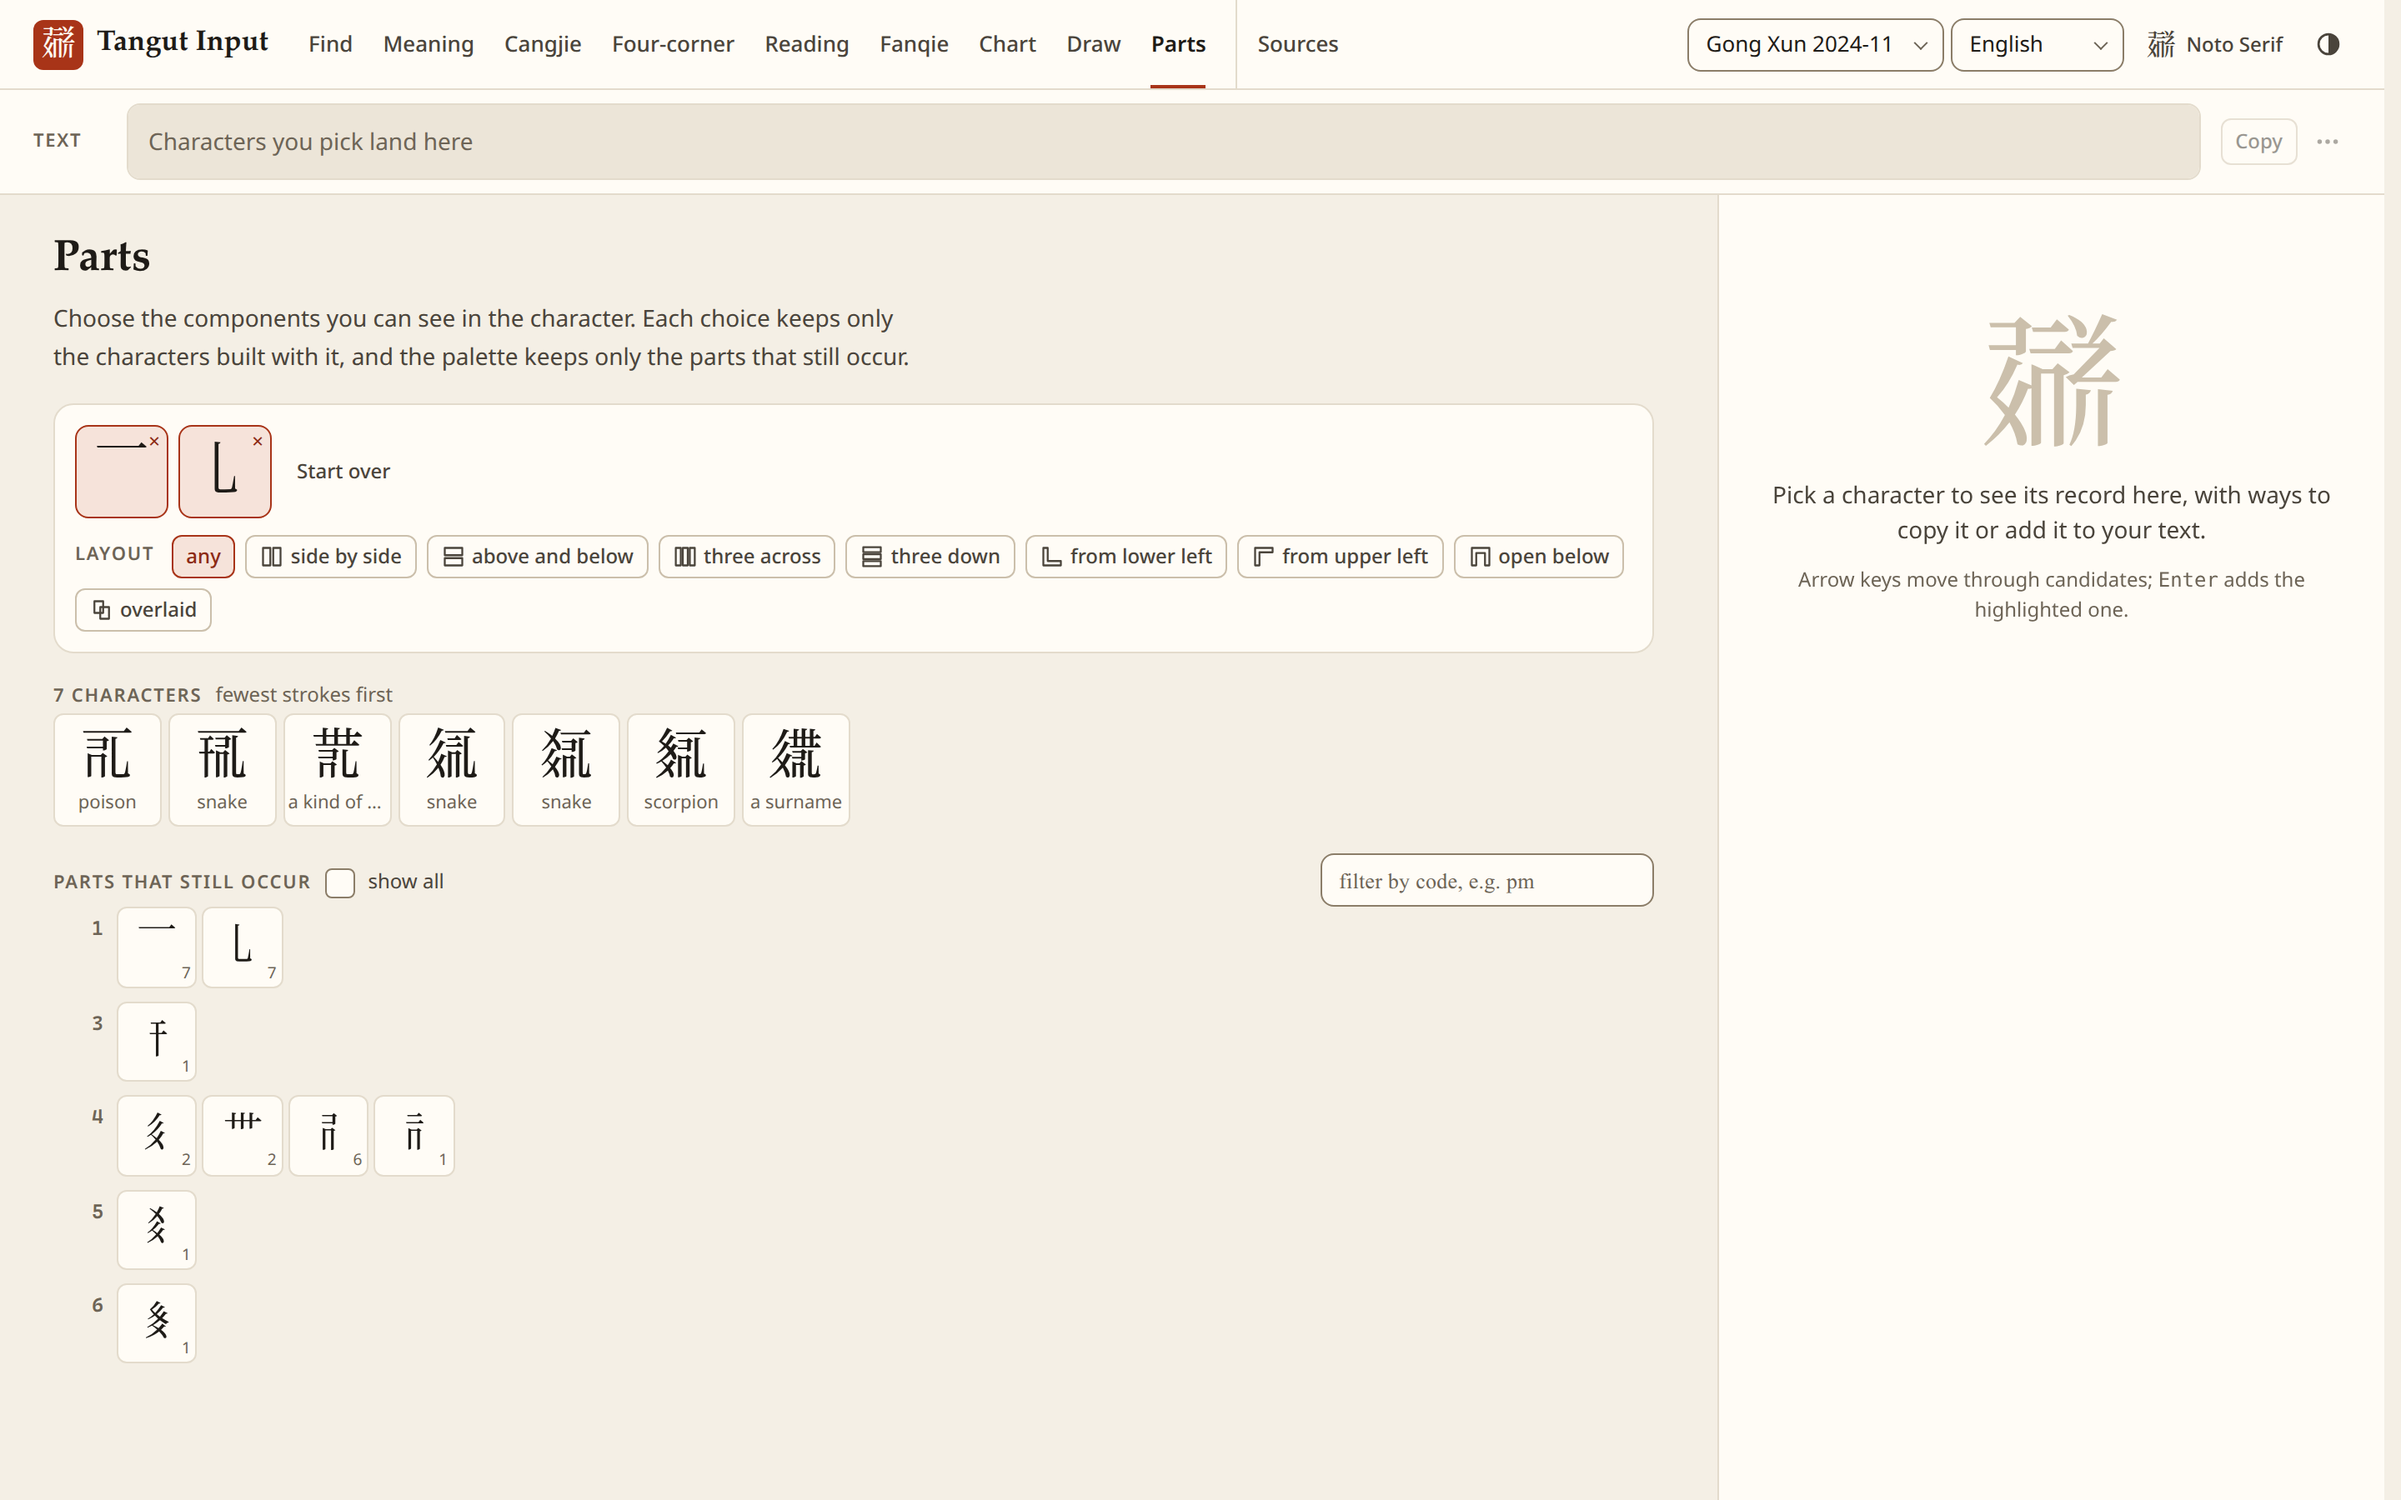
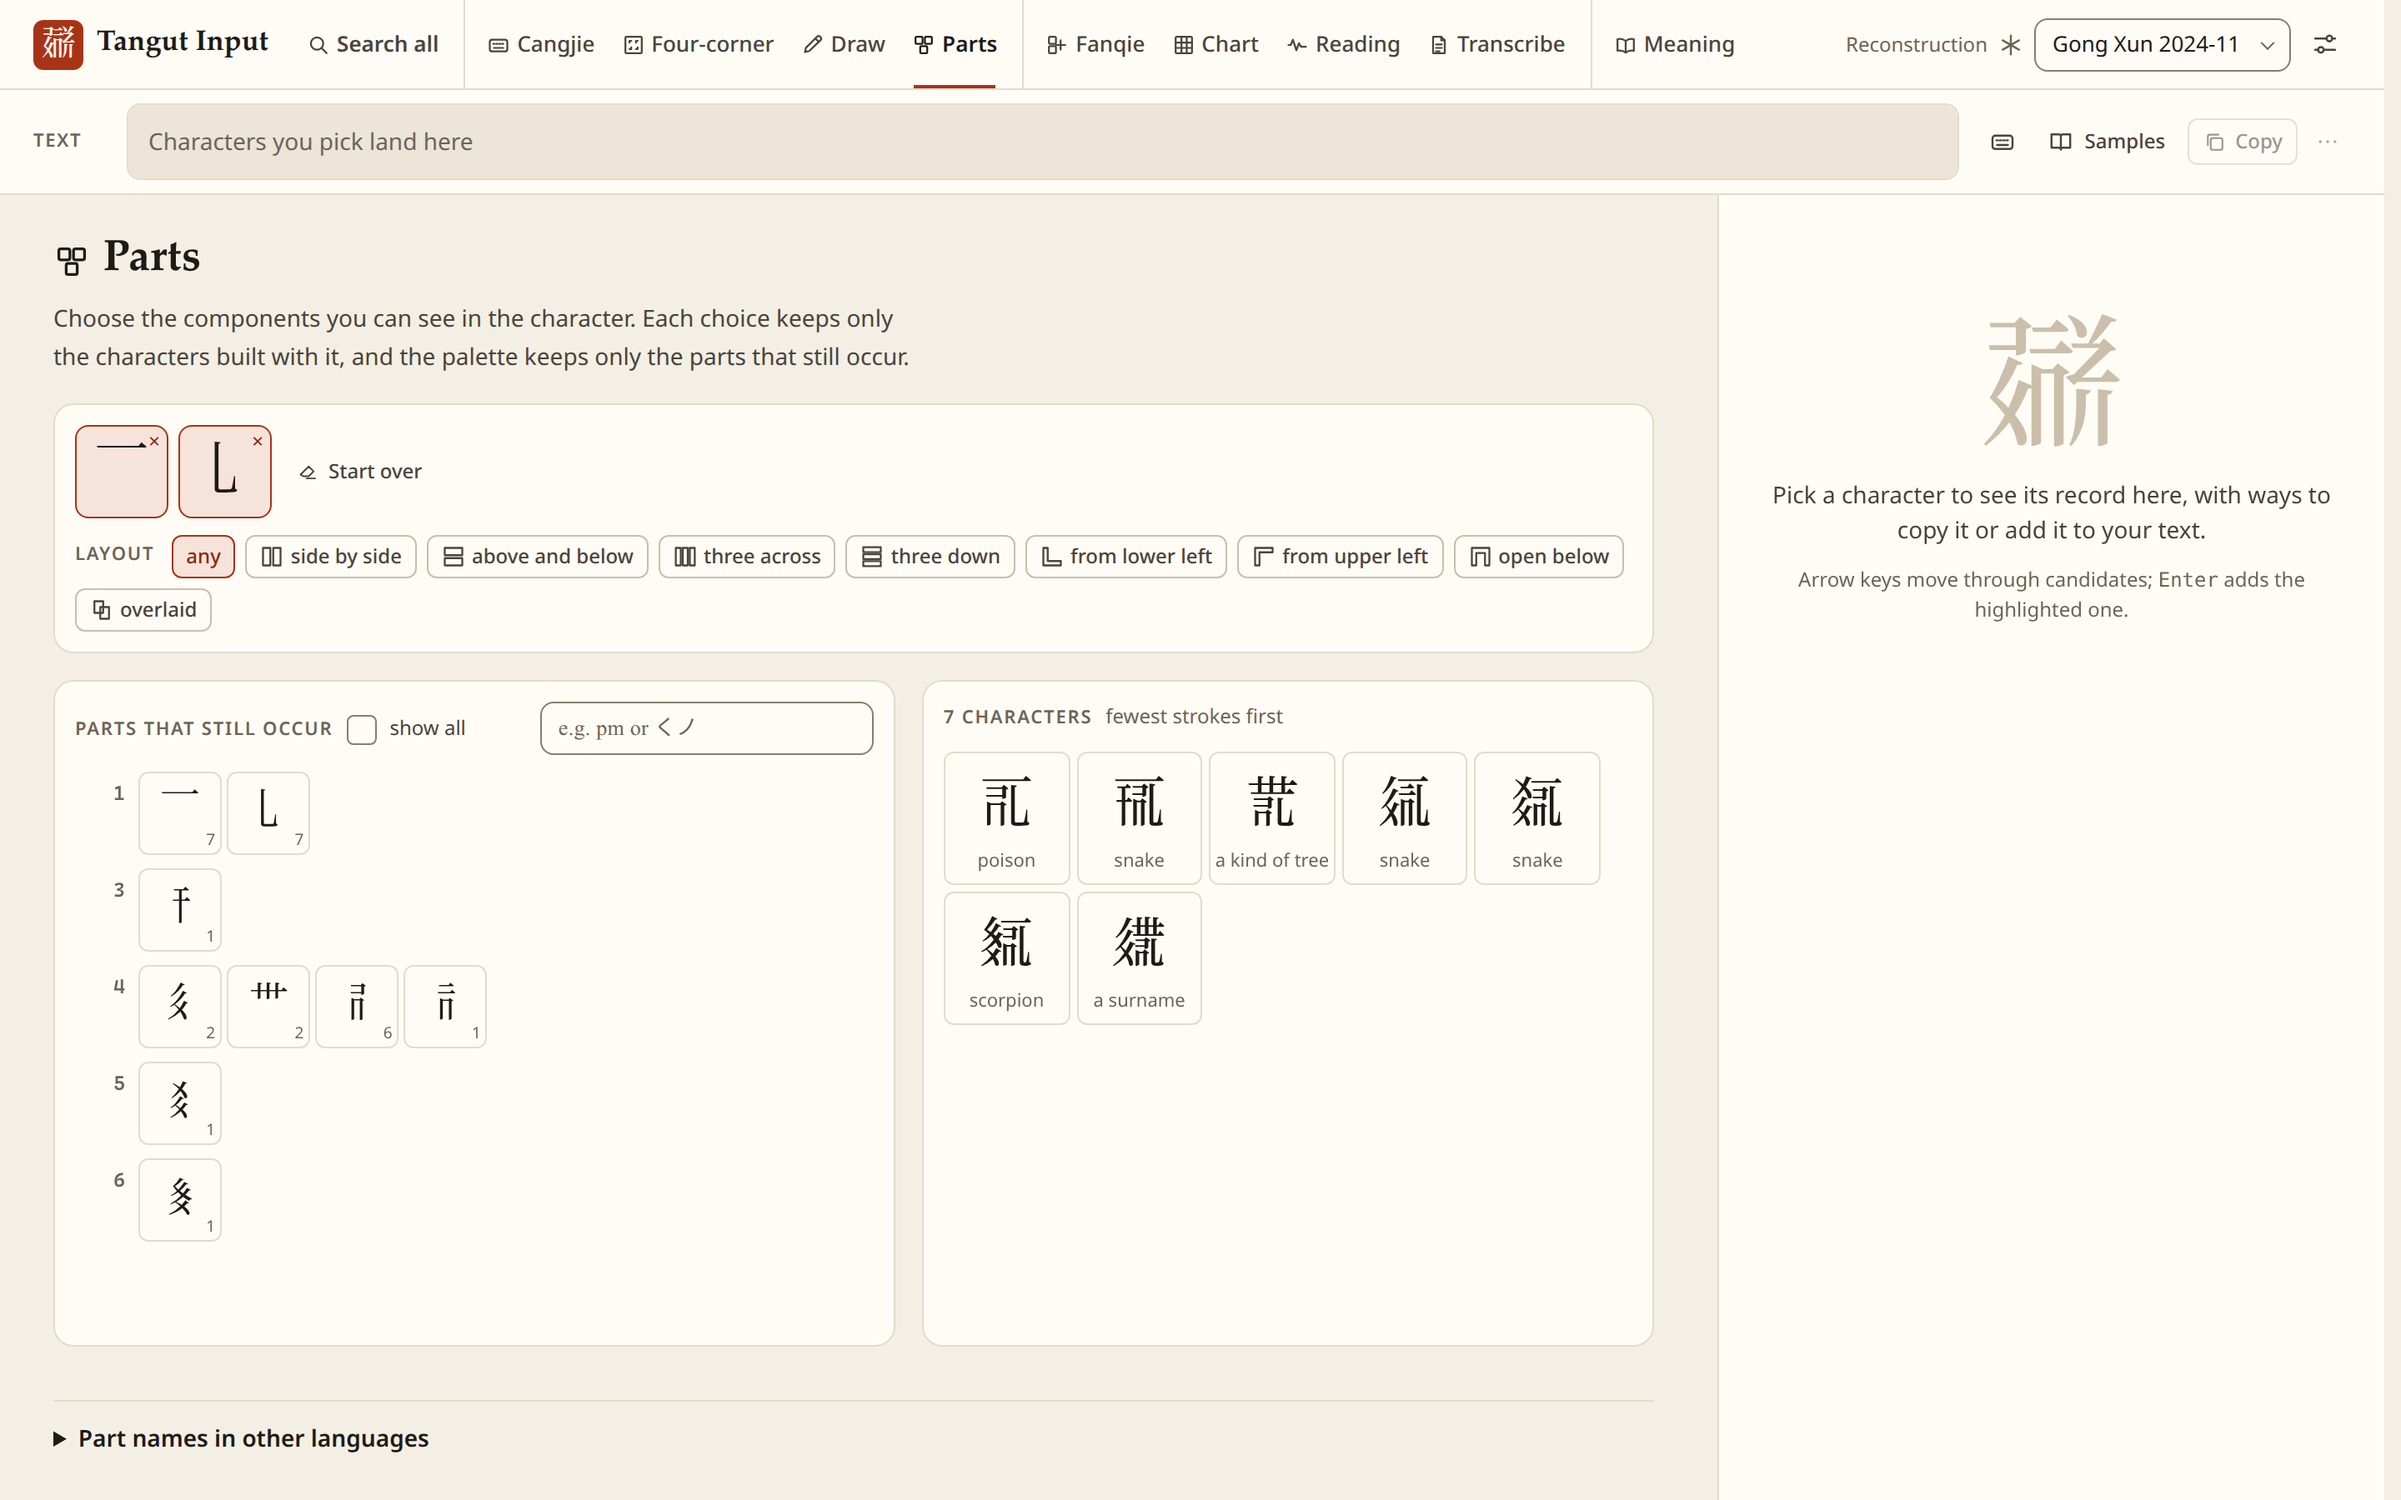
fix(parts): keep the component palette in view when matches appear

diff --git a/app/pages/Parts.svelte b/app/pages/Parts.svelte
@@ -25,6 +25,8 @@
   let info = $state(null)
   /** @type {Candidates | null} */
   let grid = $state(null)
+  /** @type {HTMLElement | null} */
+  let results = $state(null)
 
   const ready = $derived(db.status === 'ready')
   // A part from the address waits for the records before it can be checked.
@@ -34,6 +36,11 @@
 
   const hits = $derived(ready ? byParts(chosen, layout) : [])
   const among = $derived(chosen.length || layout ? partsAmong(hits) : null)
+  // New matches are read from their first row; the palette keeps its own place.
+  $effect(() => {
+    void hits
+    if (results) results.scrollTop = 0
+  })
   const LAYOUT_KEYS = ['⿰', '⿱', '⿲', '⿳', '⿺', '⿸', '⿵', '⿻']
 
   // Every part, by strokes then by how often descriptions use it; narrowed by the choice so far.
@@ -95,6 +102,15 @@
   function hideInfo() {
     info = null
   }
+  // Tab reaches a tile, then the palette scrolls it into view: move the record with the tile.
+  function scrolled() {
+    const active = document.activeElement
+    if (active instanceof HTMLElement && active.classList.contains('comp') && active.dataset.part && info?.part === active.dataset.part) {
+      info = { ...info, ...partInfoPlacement(active.getBoundingClientRect()) }
+      return
+    }
+    hideInfo()
+  }
   /** @param {string} part */
   function shapeName(part) {
     return ix.names.find(row => row.char === part)?.name ?? ''
@@ -144,21 +160,54 @@
     </div>
   </section>
 
-  <section class="matches" aria-label={t('parts.matchesLabel')}>
-    <div class="ui-section-head">
-      <h2 class="ui-label">{chosen.length || layout ? t('common.characters', { count: hits.length }) : t('common.charactersLabel')}</h2>
-      {#if chosen.length || layout}<span class="ui-count">{t('parts.fewestStrokes')}</span>{/if}
-    </div>
-    {#if chosen.length || layout}
-      {#if hits.length}
-        <div role="presentation" onkeydown={keys}><Candidates bind:this={grid} {items} bind:active size={64} label={t('parts.matchesLabel')} limit={240} /></div>
-      {:else}
-        <p class="ui-empty">{layout ? t('parts.noMatchLayout') : t('parts.noMatch')}</p>
-      {/if}
-    {:else}
-      <p class="ui-empty">{t('parts.empty')}</p>
-    {/if}
-  </section>
+  <div class="work">
+    <section class="palette pane ui-card" data-padding="sm" aria-label={t('parts.paletteLabel')}>
+      <div class="ui-section-head">
+        <h2 class="ui-label">{among && !everything ? t('parts.stillOccur') : t('parts.allComponents')}</h2>
+        {#if among}
+          <label class="ui-check-row all"><input class="ui-checkbox" type="checkbox" bind:checked={everything} /> <span>{t('parts.showAll')}</span></label>
+        {/if}
+        <span class="filter-wrap">
+          <input class="ui-input ui-mono" data-size="sm" data-primary bind:value={filter} oninput={() => { info = null }} placeholder={t('parts.filterPlaceholder')} aria-label={t('parts.filterLabel')} spellcheck="false" autocomplete="off" />
+        </span>
+      </div>
+      <div class="strokes" onscroll={scrolled}>
+        {#each byStroke as [count, parts] (count)}
+          <div class="stroke-group">
+            <h3 class="stroke-count" title={t('draw.strokes', { count })}>{count || '?'}</h3>
+            <div class="ui-tiles comps" style:--ui-tile-size="46px">
+              {#each parts as p (p.part)}
+                <button type="button" class="ui-tile comp" data-dim={p.live === 0 ? '' : undefined} data-part={p.part} onclick={() => add(p.part)}
+                  aria-describedby={info?.part === p.part ? 'part-info' : undefined}
+                  aria-label={partLabel(p)}
+                  onmouseenter={event => showInfo(event, p)} onmouseleave={hideInfo} onfocus={event => showInfo(event, p)} onblur={hideInfo}>
+                  <G char={p.part} />{#if p.live > 0}<small class="use">{p.live}</small>{/if}
+                </button>
+              {/each}
+            </div>
+          </div>
+        {/each}
+      </div>
+    </section>
+
+    <section class="matches pane ui-card" data-padding="sm" aria-label={t('parts.matchesLabel')}>
+      <div class="ui-section-head">
+        <h2 class="ui-label">{chosen.length || layout ? t('common.characters', { count: hits.length }) : t('common.charactersLabel')}</h2>
+        {#if chosen.length || layout}<span class="ui-count">{t('parts.fewestStrokes')}</span>{/if}
+      </div>
+      <div class="results" bind:this={results}>
+        {#if chosen.length || layout}
+          {#if hits.length}
+            <div role="presentation" onkeydown={keys}><Candidates bind:this={grid} {items} bind:active size={64} label={t('parts.matchesLabel')} limit={240} /></div>
+          {:else}
+            <p class="ui-empty">{layout ? t('parts.noMatchLayout') : t('parts.noMatch')}</p>
+          {/if}
+        {:else}
+          <p class="ui-empty">{t('parts.empty')}</p>
+        {/if}
+      </div>
+    </section>
+  </div>
 
   {#if ready && ix.partNames?.rows.length}
     <details class="name-table">
@@ -188,34 +237,6 @@
       </div>
     </details>
   {/if}
-  <section class="palette" aria-label={t('parts.paletteLabel')}>
-    <div class="ui-section-head">
-      <h2 class="ui-label">{among && !everything ? t('parts.stillOccur') : t('parts.allComponents')}</h2>
-      {#if among}
-        <label class="ui-check-row all"><input class="ui-checkbox" type="checkbox" bind:checked={everything} /> <span>{t('parts.showAll')}</span></label>
-      {/if}
-      <span class="filter-wrap">
-        <input class="ui-input ui-mono" data-size="sm" data-primary bind:value={filter} oninput={() => { info = null }} placeholder={t('parts.filterPlaceholder')} aria-label={t('parts.filterLabel')} spellcheck="false" autocomplete="off" />
-      </span>
-    </div>
-    <div class="strokes">
-      {#each byStroke as [count, parts] (count)}
-        <div class="stroke-group">
-          <h3 class="stroke-count" title={t('draw.strokes', { count })}>{count || '?'}</h3>
-          <div class="ui-tiles comps" style:--ui-tile-size="46px">
-            {#each parts as p (p.part)}
-              <button type="button" class="ui-tile comp" data-dim={p.live === 0 ? '' : undefined} onclick={() => add(p.part)}
-                aria-describedby={info?.part === p.part ? 'part-info' : undefined}
-                aria-label={partLabel(p)}
-                onmouseenter={event => showInfo(event, p)} onmouseleave={hideInfo} onfocus={event => showInfo(event, p)} onblur={hideInfo}>
-                <G char={p.part} />{#if p.live > 0}<small class="use">{p.live}</small>{/if}
-              </button>
-            {/each}
-          </div>
-        </div>
-      {/each}
-    </div>
-  </section>
 
   {#if info}<PartInfo part={info.part} x={info.x} y={info.y} live={info.live} />{/if}
 </div>
@@ -236,7 +257,10 @@
   .filter-wrap{margin-inline-start:auto}
   .filter-wrap .ui-input{inline-size:200px}
   .all{min-block-size:24px;font-size:var(--ui-text-xs);color:var(--ui-color-ink-soft)}
-  .strokes{display:grid;gap:var(--ui-space-sm)}
+  .work{display:grid;grid-template-columns:minmax(0,1.15fr) minmax(0,1fr);gap:var(--ui-space-xl);align-items:stretch}
+  .pane{display:grid;grid-template-rows:auto minmax(0,1fr);gap:var(--ui-space-md);block-size:clamp(280px,calc(100dvh - 500px),680px);min-inline-size:0}
+  .strokes,.results{min-block-size:0;overflow:auto;scrollbar-gutter:stable;padding-inline-end:var(--ui-space-2xs)}
+  .strokes{display:grid;align-content:start;gap:var(--ui-space-sm)}
   .stroke-group{display:grid;grid-template-columns:30px minmax(0,1fr);gap:var(--ui-space-sm);align-items:start}
   .stroke-count{padding-top:var(--ui-space-xs);color:var(--ui-color-ink-muted);font-family:var(--ui-font-mono);font-size:var(--ui-text-xs);font-weight:var(--ui-weight-semibold);text-align:end}
   .comps{gap:3px}
@@ -253,7 +277,12 @@
   .name-table th[scope='row'] :global(.ui-script){font-size:22px;margin-inline-end:4px}
   .name-table td{vertical-align:top}
   .name-table .source{white-space:nowrap;color:var(--ui-color-ink-muted);font-size:var(--ui-text-2xs)}
+  @media (max-width:1240px){
+    .work{grid-template-columns:minmax(0,1fr)}
+    .pane{block-size:clamp(260px,38dvh,460px)}
+  }
   @media (max-width:900px){
+    .pane{block-size:clamp(260px,33dvh,380px)}
     .filter-wrap{inline-size:100%;margin-inline-start:0}
     .filter-wrap .ui-input{inline-size:100%}
     .layouts .ui-chip span{display:none}

diff --git a/docs/design.md b/docs/design.md
@@ -98,12 +98,14 @@ when the user has one. A checkbox favours characters whose recorded stroke count
 number of strokes drawn; another adds components to the search. On a phone, results come straight
 after the pad and the note follows them.
 
-**Parts** (`/parts`) builds a character from components, as the script is built. Each chosen part
-keeps only the characters whose description holds it (twice if chosen twice), and the palette
-below keeps only the parts that still occur, with a count on each, so the next choice always leads
-somewhere. An outer layout (side by side, above and below, three across …) narrows further. The
-palette is ordered by stroke count, then by use, and can be filtered by Cangjie code. Choosing a
-part also opens it in the card. A card's “Characters with these parts” link opens Parts with that
+**Parts** (`/parts`) builds a character from components, as the script is built. The palette and
+the matching characters sit in two panes side by side, stacked on a narrow screen, each scrolling
+on its own, so a new match never pushes the palette out of reach. Each chosen part keeps only the
+characters whose description holds it (twice if chosen twice), and the palette keeps only the parts
+that still occur, with a count on each, so the next choice always leads somewhere. An outer layout
+(side by side, above and below, three across …) narrows further. The palette is ordered by stroke
+count, then by use, and can be filtered by Cangjie code or Japanese shape name. Choosing a part
+also opens it in the card. A card's “Characters with these parts” link opens Parts with that
 character's parts chosen.
 
 **Fanqie** (`/fanqie`) goes the other way: it takes the upper and lower characters a rhyme book
